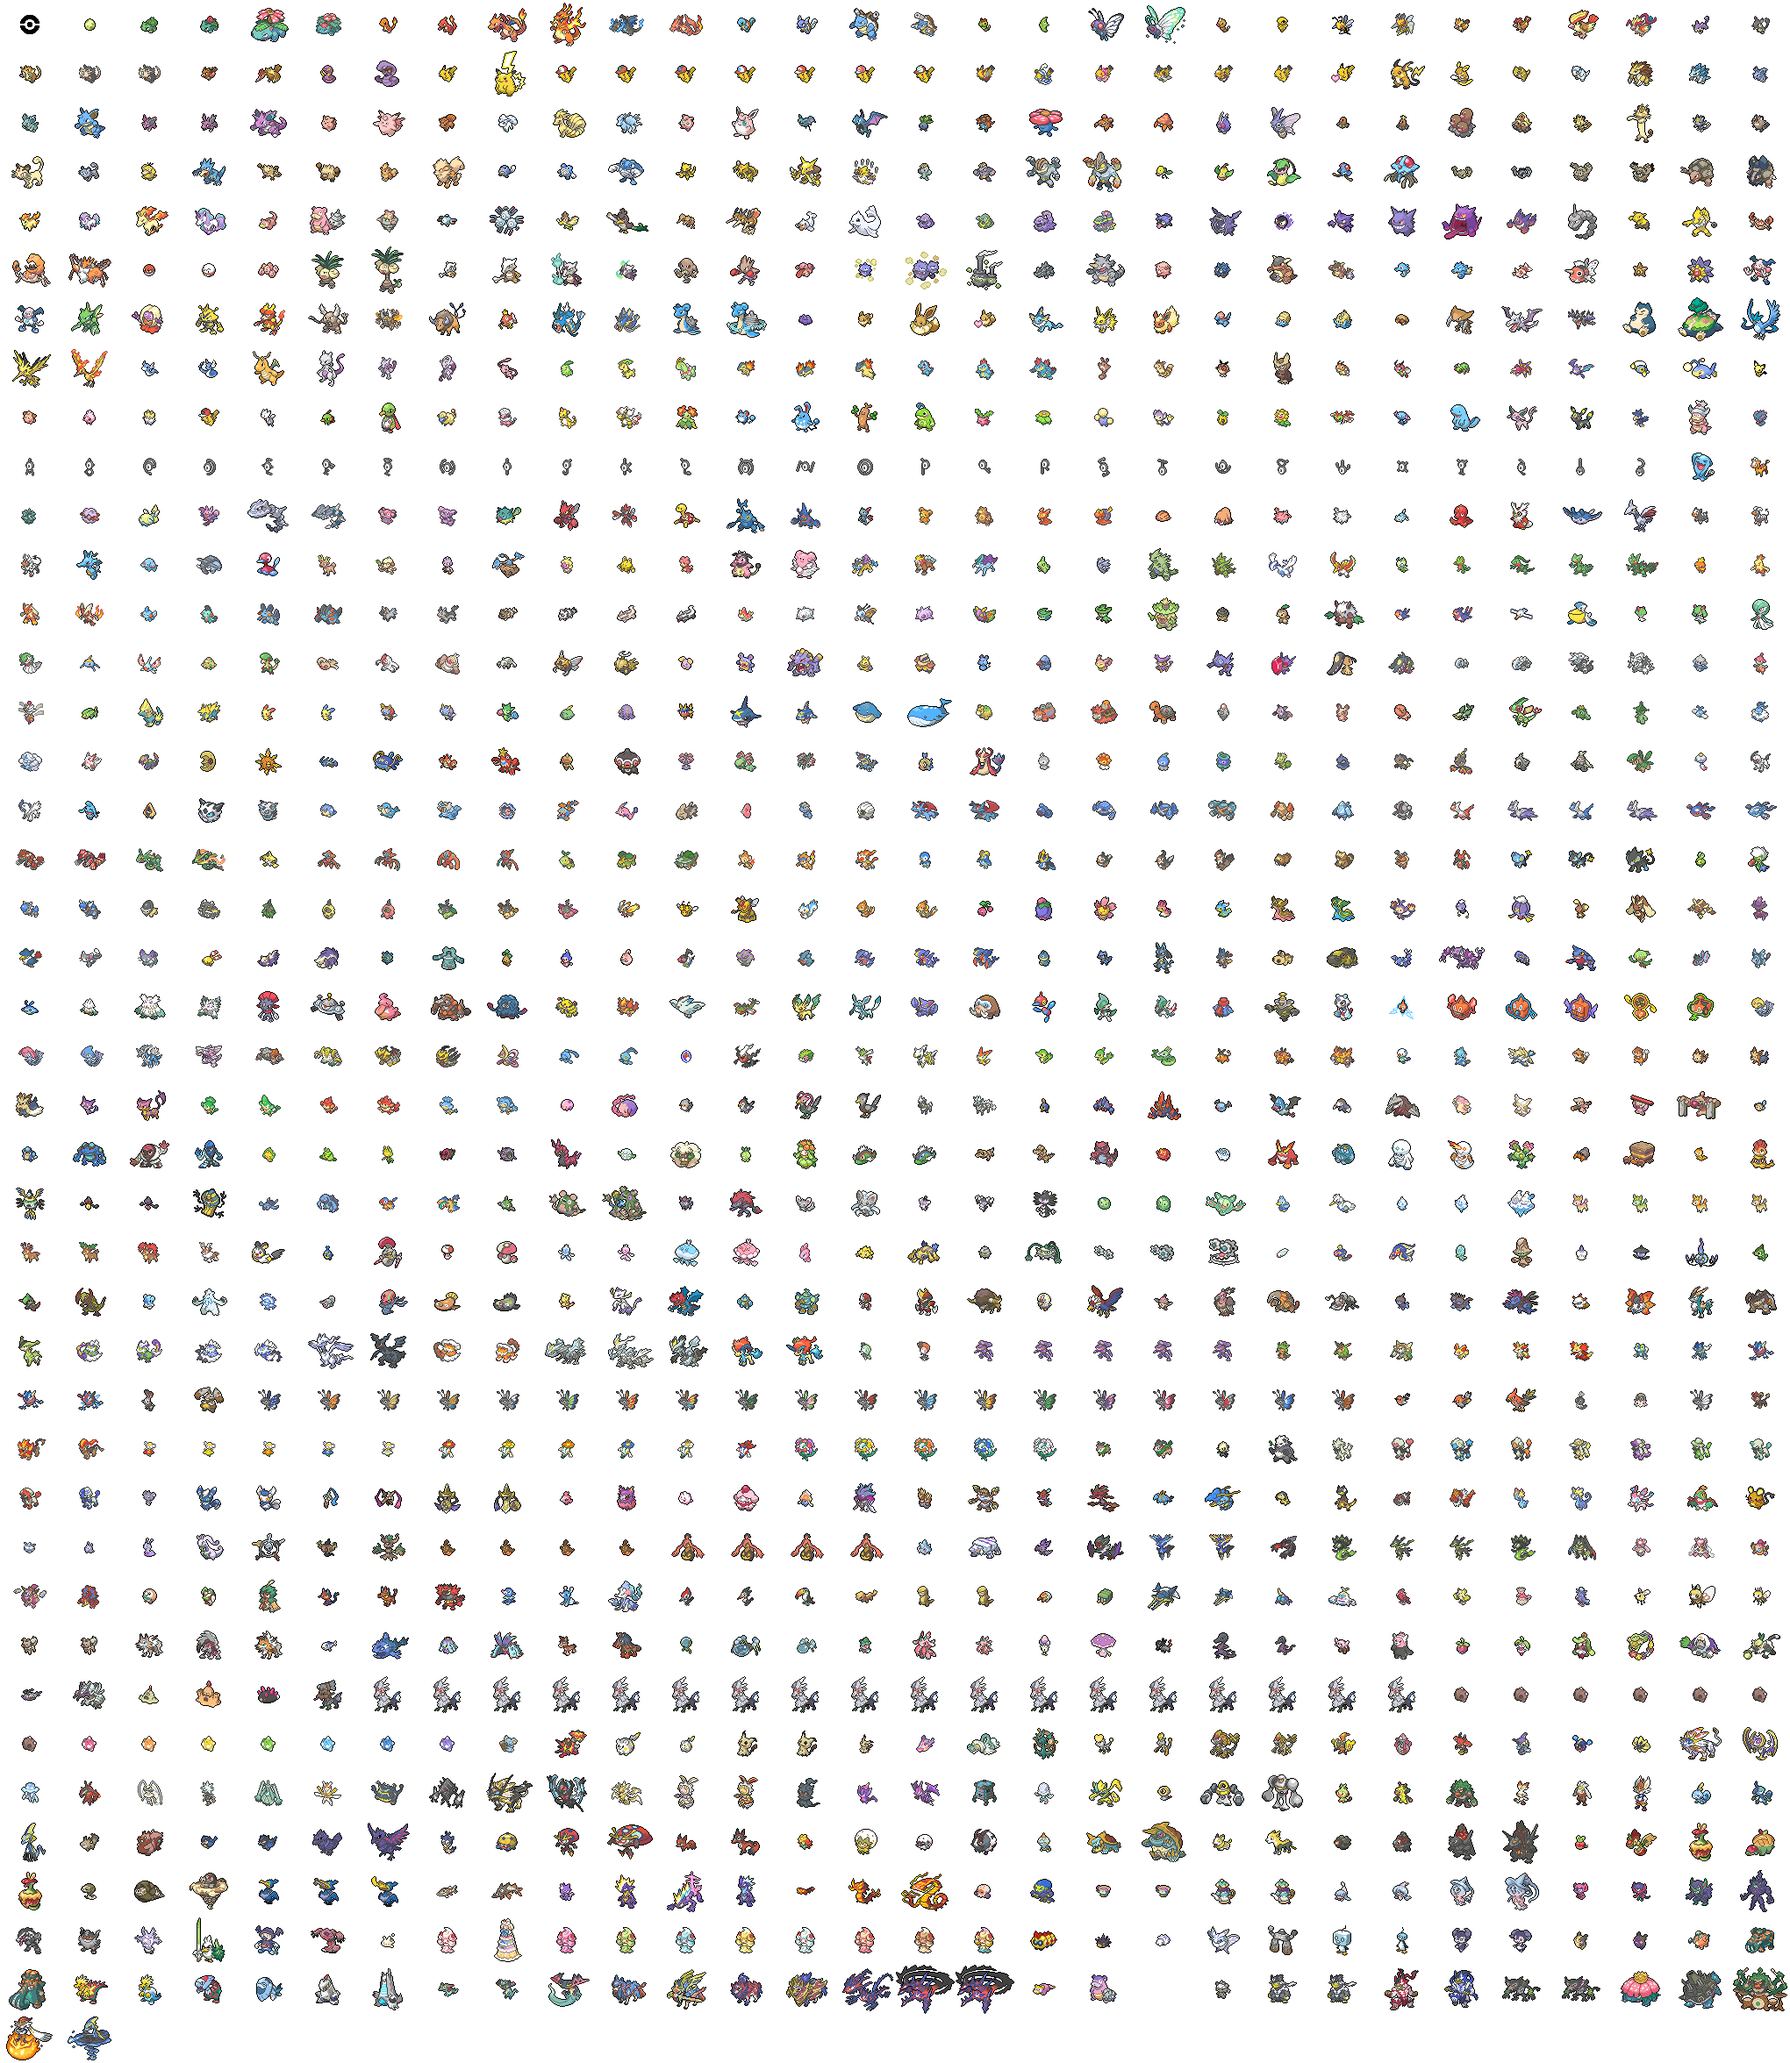
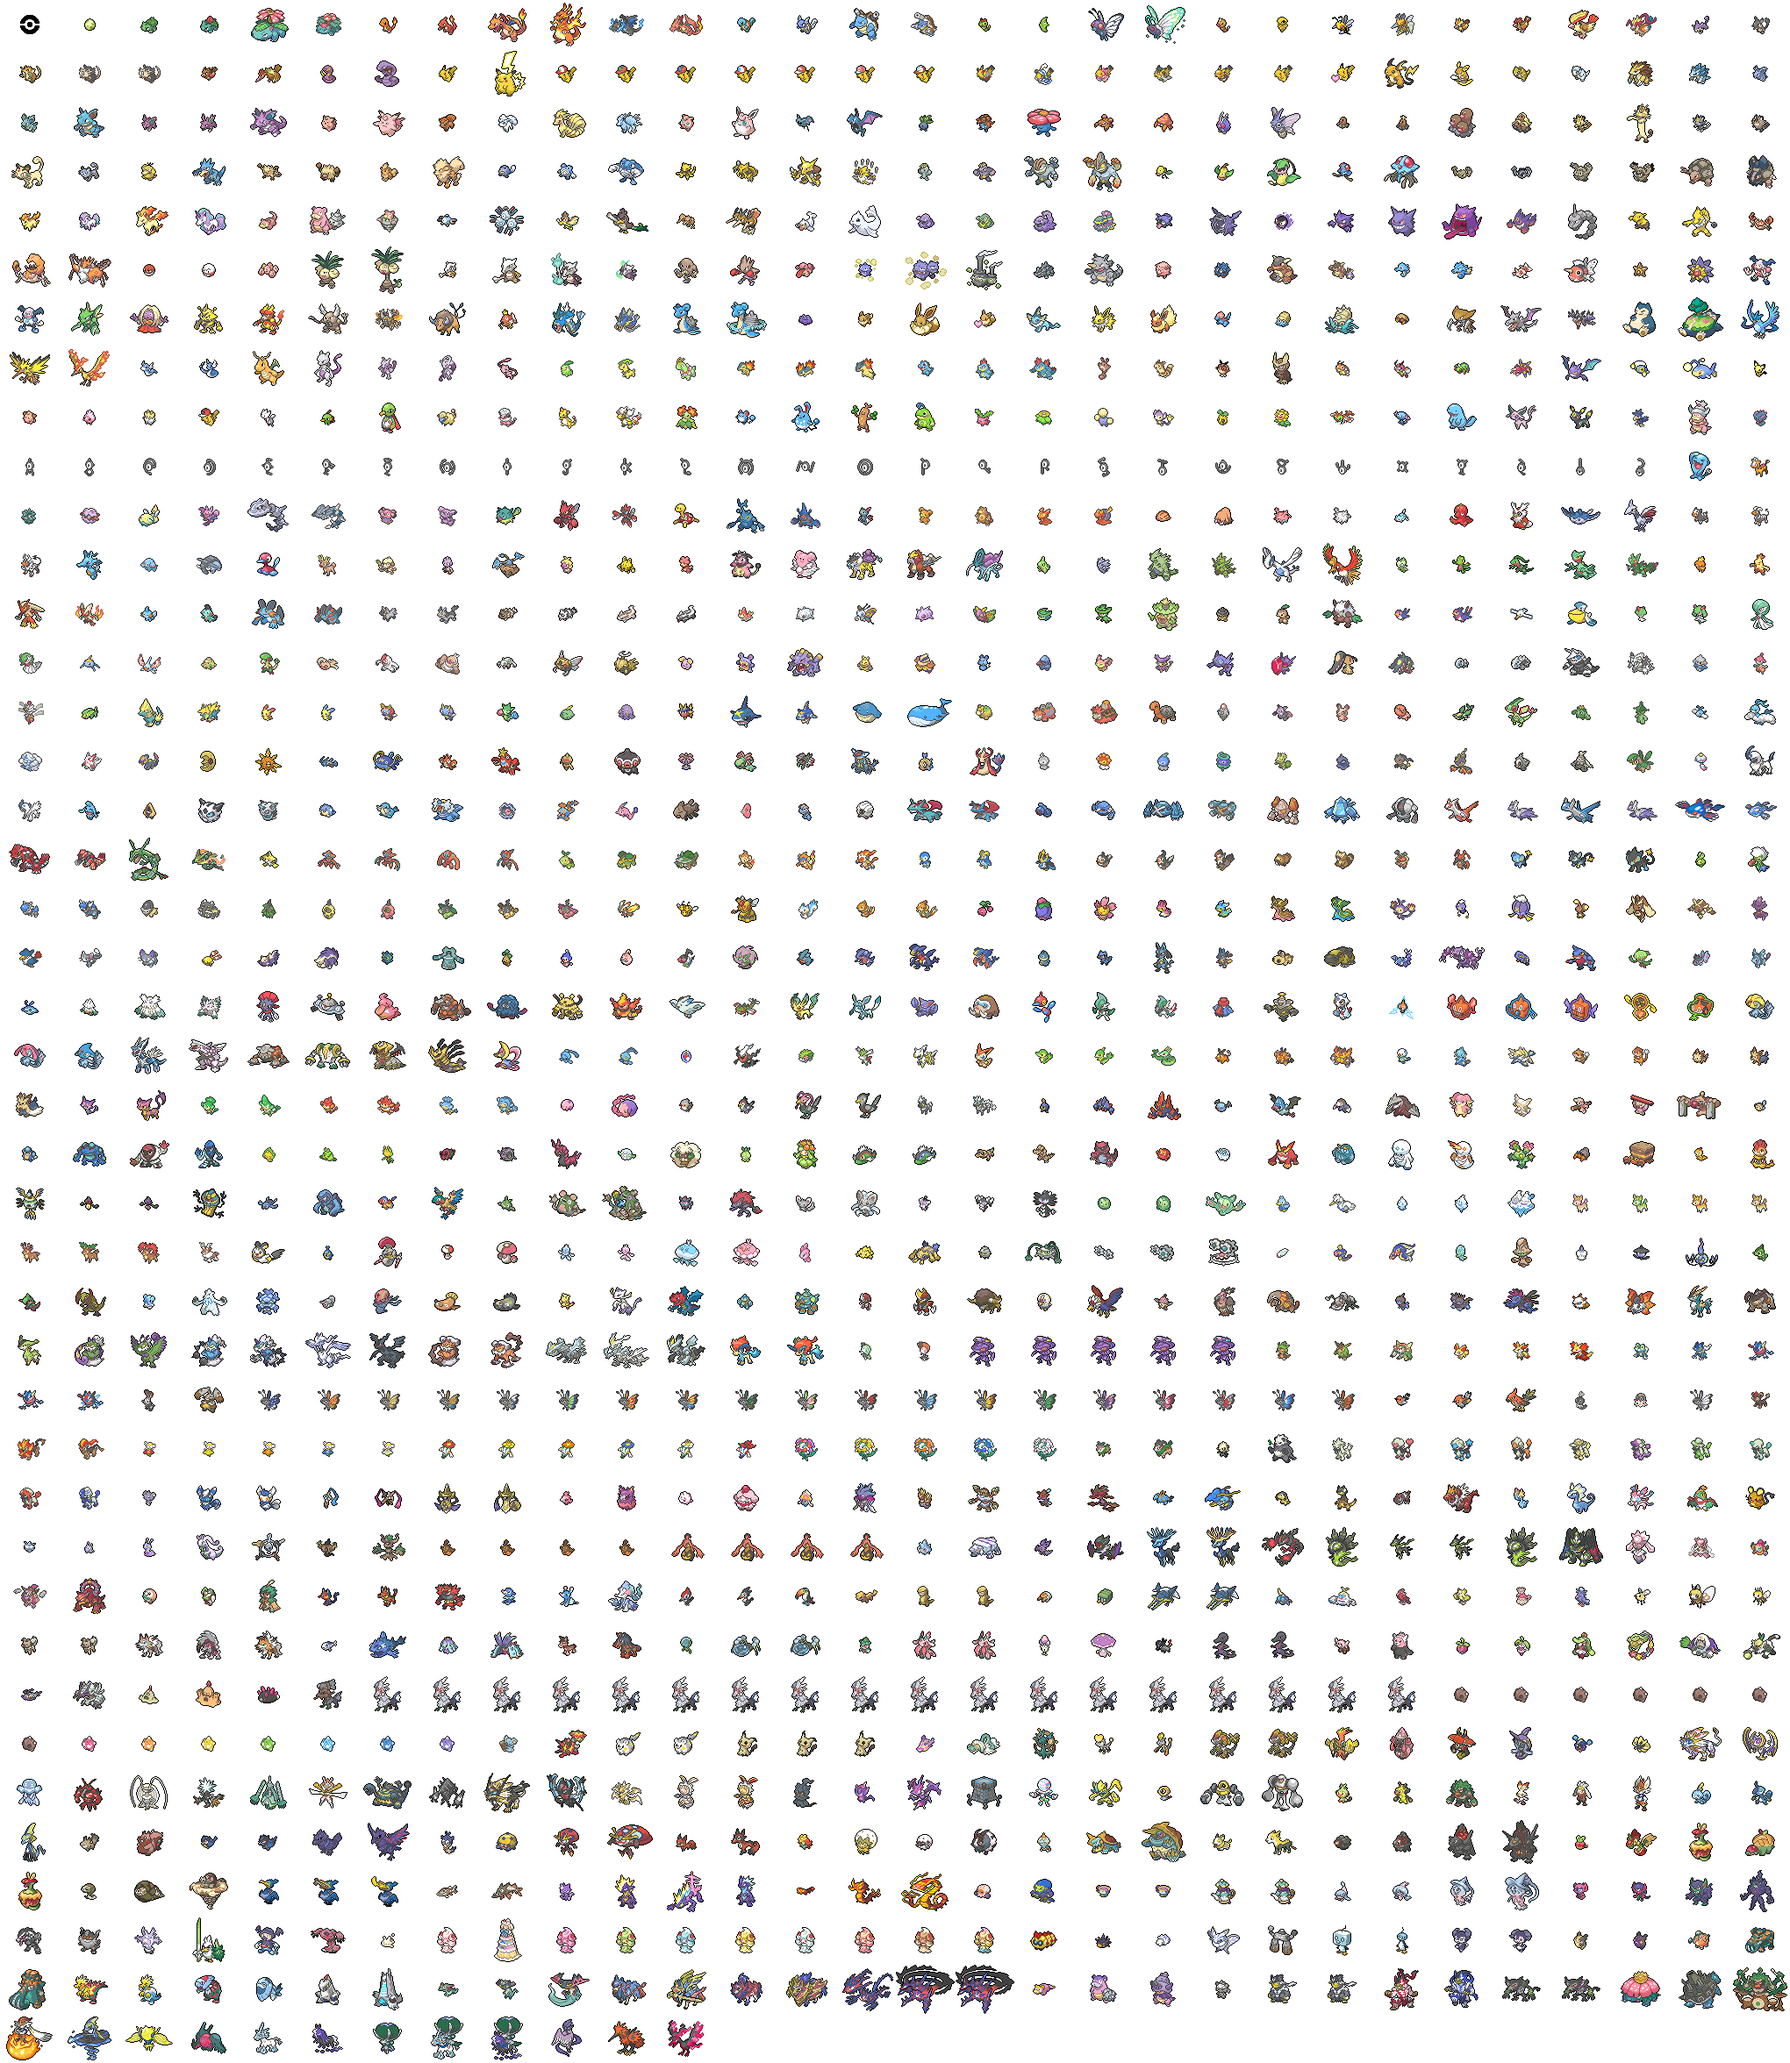
update swsh dlc2

diff --git a/src/pokedex.js b/src/pokedex.js
@@ -1,6 +1,6 @@
 import { pad } from './utils';
 
-const national = Array.from(Array(893).keys()).map(idx => pad(idx + 1));
+const national = Array.from(Array(898).keys()).map(idx => pad(idx + 1));
 // gen 1
 const rgby = Array.from(Array(151).keys()).map(idx => pad(idx + 1));
 // gen 2
@@ -35,6 +35,7 @@ const lgpe = [...rgby, '808', '809'];
 // gen 8
 const swsh = ['810', '811', '812', '813', '814', '815', '816', '817', '818', '824', '825', '826', '010', '011', '012', '736', '737', '738', '163', '164', '821', '822', '823', '819', '820', '519', '520', '521', '827', '828', '263', '264', '862', '831', '832', '270', '271', '272', '273', '274', '275', '833', '834', '509', '510', '835', '836', '659', '660', '572', '573', '761', '762', '763', '043', '044', '045', '182', '406', '315', '407', '278', '279', '595', '596', '309', '310', '037', '038', '058', '059', '582', '583', '584', '220', '221', '473', '225', '361', '362', '478', '343', '344', '749', '750', '557', '558', '622', '623', '517', '518', '177', '178', '759', '760', '459', '460', '098', '099', '194', '195', '341', '342', '290', '291', '292', '236', '106', '107', '237', '674', '675', '599', '600', '601', '415', '416', '436', '437', '280', '281', '282', '475', '425', '426', '829', '830', '420', '421', '434', '435', '535', '536', '537', '355', '356', '477', '066', '067', '068', '092', '093', '094', '129', '130', '118', '119', '223', '224', '090', '091', '349', '350', '550', '746', '771', '568', '569', '850', '851', '837', '838', '839', '050', '051', '529', '530', '524', '525', '526', '532', '533', '534', '527', '528', '714', '715', '095', '208', '846', '847', '052', '863', '053', '868', '869', '742', '743', '597', '598', '710', '711', '172', '025', '026', '133', '134', '135', '136', '196', '197', '470', '471', '700', '840', '841', '842', '677', '678', '684', '685', '682', '683', '751', '752', '360', '202', '083', '865', '170', '171', '453', '454', '559', '560', '618', '213', '339', '340', '422', '423', '767', '768', '688', '689', '222', '864', '859', '860', '861', '856', '857', '858', '757', '758', '624', '625', '538', '539', '109', '110', '438', '185', '173', '035', '036', '175', '176', '468', '446', '143', '546', '547', '111', '112', '464', '574', '575', '576', '577', '578', '579', '588', '589', '616', '617', '605', '606', '613', '614', '627', '628', '629', '630', '451', '452', '607', '608', '609', '686', '687', '215', '461', '302', '303', '556', '561', '447', '448', '324', '778', '878', '879', '211', '592', '593', '747', '748', '845', '848', '849', '843', '844', '449', '450', '632', '631', '694', '695', '701', '328', '329', '330', '610', '611', '612', '562', '867', '563', '679', '680', '681', '077', '078', '854', '855', '876', '708', '709', '755', '756', '765', '766', '877', '870', '780', '776', '777', '872', '873', '852', '853', '871', '458', '226', '320', '321', '712', '713', '781', '131', '337', '338', '439', '122', '866', '554', '555', '874', '875', '884', '479', '132', '880', '881', '882', '883', '004', '005', '006', '772', '773', '246', '247', '248', '633', '634', '635', '704', '705', '706', '782', '783', '784', '885', '886', '887', '888', '889', '890'];
 const swsh_armor = ['079', '080', '199', '427', '428', '440', '113', '242', '819', '820', '174', '039', '040', '824', '825', '826', '753', '754', '840', '841', '842', '661', '662', '663', '403', '404', '405', '707', '624', '625', '063', '064', '065', '280', '281', '282', '475', '098', '099', '072', '073', '129', '130', '223', '224', '458', '226', '278', '279', '451', '452', '206', '626', '108', '463', '833', '834', '194', '195', '704', '705', '706', '621', '616', '617', '588', '589', '001', '002', '003', '007', '008', '009', '543', '544', '545', '590', '591', '764', '114', '465', '453', '454', '172', '025', '026', '570', '571', '765', '766', '341', '342', '845', '118', '119', '846', '847', '120', '121', '891', '892', '587', '702', '877', '081', '082', '462', '686', '687', '746', '318', '319', '506', '507', '508', '128', '241', '123', '212', '127', '214', '557', '558', '767', '768', '871', '747', '748', '852', '853', '090', '091', '769', '770', '425', '426', '339', '340', '298', '183', '184', '060', '061', '062', '186', '054', '055', '293', '294', '295', '527', '528', '227', '524', '525', '526', '744', '745', '757', '758', '559', '560', '619', '620', '782', '783', '784', '027', '028', '104', '105', '115', '324', '843', '844', '551', '552', '553', '627', '628', '629', '630', '111', '112', '464', '636', '637', '170', '171', '320', '321', '592', '593', '690', '691', '692', '693', '116', '117', '230', '548', '549', '415', '416', '102', '103', '132', '137', '233', '474', '893'];
+const swsh_crown = ['872', '873', '831', '832', '819', '820', '220', '221', '473', '439', '122', '866', '238', '124', '239', '125', '466', '240', '126', '467', '531', '582', '583', '584', '361', '362', '478', '215', '461', '615', '459', '460', '708', '709', '333', '334', '859', '860', '861', '856', '857', '858', '173', '035', '036', '778', '442', '607', '608', '609', '574', '575', '576', '577', '578', '579', '532', '533', '534', '339', '340', '129', '130', '550', '029', '030', '031', '032', '033', '034', '263', '264', '862', '133', '134', '135', '136', '196', '197', '470', '471', '700', '696', '697', '698', '699', '436', '437', '874', '875', '751', '752', '595', '596', '588', '589', '616', '617', '850', '851', '632', '631', '554', '555', '077', '078', '359', '878', '879', '885', '886', '887', '371', '372', '373', '443', '444', '445', '621', '225', '613', '614', '138', '139', '140', '141', '142', '703', '374', '375', '376', '854', '855', '447', '448', '633', '634', '635', '246', '247', '248', '712', '713', '041', '042', '169', '564', '565', '566', '567', '343', '344', '622', '623', '835', '836', '877', '871', '363', '364', '365', '781', '821', '822', '823', '829', '830', '546', '547', '213', '876', '446', '143', '302', '303', '837', '838', '839', '597', '598', '714', '715', '345', '346', '347', '348', '369', '349', '350', '131', '304', '305', '306', '147', '148', '149', '377', '378', '379', '894', '895', '144', '145', '146', '638', '639', '640', '896', '897', '898'];
 
 export default {
     national,
@@ -64,4 +65,5 @@ export default {
     lgpe,
     swsh,
     swsh_armor,
+    swsh_crown,
 };

diff --git a/src/App.js b/src/App.js
@@ -10,7 +10,7 @@ import {
 import Card from '@material-ui/core/Card';
 import CardContent from '@material-ui/core/CardContent';
 import Container from '@material-ui/core/Container';
-import { fade, makeStyles } from '@material-ui/core/styles';
+import { alpha, makeStyles } from '@material-ui/core/styles';
 import Link from '@material-ui/core/Link';
 import AppBar from '@material-ui/core/AppBar';
 import Toolbar from '@material-ui/core/Toolbar';
@@ -54,9 +54,9 @@ const useStyles = makeStyles(theme => ({
   search: {
     position: 'relative',
     borderRadius: theme.shape.borderRadius,
-    backgroundColor: fade(theme.palette.common.white, 0.15),
+    backgroundColor: alpha(theme.palette.common.white, 0.15),
     '&:hover': {
-      backgroundColor: fade(theme.palette.common.white, 0.25),
+      backgroundColor: alpha(theme.palette.common.white, 0.25),
     },
     marginLeft: 0,
     width: '100%',
@@ -131,7 +131,7 @@ function Computer(props) {
   const dex = pokedex[pokedexId || 'national'];
 
   return (
-    <Grid container justify="center" alignItems="center" direction="column">
+    <Grid container justifyContent="center" alignItems="center" direction="column">
       {
         Array.from(Array(Math.ceil(dex.length / 30)).keys()).map((i) => {
           const offset = 30 * i;
@@ -169,45 +169,46 @@ function GameSelector(props) {
         <tbody>
           <tr>
             <td>關都</td>
-            <td colSpan="8"><AreaLink label="RGBY" to="/rgby" /></td>
-            <td colSpan="8"><AreaLink label="FRLG" to="/frlg" /></td>
-            <td colSpan="8"><AreaLink label="LGPE" to="/lgpe" /></td>
+            <td><AreaLink label="RGBY" to="/rgby" /></td>
+            <td><AreaLink label="FRLG" to="/frlg" /></td>
+            <td><AreaLink label="LGPE" to="/lgpe" /></td>
           </tr>
           <tr>
             <td>城都</td>
-            <td colSpan="12"><AreaLink label="GSC" to="/gsc" /></td>
-            <td colSpan="12"><AreaLink label="HGSS" to="/hgss" /></td>
+            <td><AreaLink label="GSC" to="/gsc" /></td>
+            <td><AreaLink label="HGSS" to="/hgss" /></td>
           </tr>
           <tr>
             <td>豐緣</td>
-            <td colSpan="12"><AreaLink label="RSE" to="/rse" /></td>
-            <td colSpan="12"><AreaLink label="ORAS" to="/oras" /></td>
+            <td><AreaLink label="RSE" to="/rse" /></td>
+            <td><AreaLink label="ORAS" to="/oras" /></td>
           </tr>
           <tr>
             <td>神奧</td>
-            <td colSpan="12"><AreaLink label="DP" to="/dp" /></td>
-            <td colSpan="12"><AreaLink label="Pt" to="/pt" /></td>
+            <td><AreaLink label="DP" to="/dp" /></td>
+            <td><AreaLink label="Pt" to="/pt" /></td>
           </tr>
           <tr>
             <td>合眾</td>
-            <td colSpan="12"><AreaLink label="BW" to="/bw" /></td>
-            <td colSpan="12"><AreaLink label="B2W2" to="/b2w2" /></td>
+            <td><AreaLink label="BW" to="/bw" /></td>
+            <td><AreaLink label="B2W2" to="/b2w2" /></td>
           </tr>
           <tr>
             <td>卡洛斯</td>
-            <td colSpan="8"><AreaLink label="Coastal" to="/xy_coastal" /></td>
-            <td colSpan="8"><AreaLink label="Central" to="/xy_central" /></td>
-            <td colSpan="8"><AreaLink label="Mountain" to="/xy_mountain" /></td>
+            <td><AreaLink label="Coastal" to="/xy_coastal" /></td>
+            <td><AreaLink label="Central" to="/xy_central" /></td>
+            <td><AreaLink label="Mountain" to="/xy_mountain" /></td>
           </tr>
           <tr>
             <td>阿羅拉</td>
-            <td colSpan="12"><AreaLink label="SM" to="/sm" /></td>
-            <td colSpan="12"><AreaLink label="USUM" to="/usum" /></td>
+            <td><AreaLink label="SM" to="/sm" /></td>
+            <td><AreaLink label="USUM" to="/usum" /></td>
           </tr>
           <tr>
             <td>伽勒爾</td>
-            <td colSpan="12"><AreaLink label="SWSH" to="/swsh" /></td>
-            <td colSpan="12"><AreaLink label="ARMOR" to="/swsh_armor" /></td>
+            <td><AreaLink label="SWSH" to="/swsh" /></td>
+            <td><AreaLink label="ARMOR" to="/swsh_armor" /></td>
+            <td><AreaLink label="CROWN" to="/swsh_crown" /></td>
           </tr>
         </tbody>
       </table>

diff --git a/src/52poke.css b/src/52poke.css
@@ -866,12 +866,24 @@
     background-position: -1972px -336px
 }
 
+.sprite-icon-144G {
+    background-position: -612px -2296px
+}
+
 .sprite-icon-145 {
     background-position: 0 -392px
 }
 
+.sprite-icon-145G {
+    background-position: -680px -2296px
+}
+
 .sprite-icon-146 {
     background-position: -68px -392px
+}
+
+.sprite-icon-146G {
+    background-position: -748px -2296px
 }
 
 .sprite-icon-147 {
@@ -4932,4 +4944,32 @@
 
 .sprite-icon-893D {
     background-position: -1768px -2240px
+}
+
+.sprite-icon-894 {
+    background-position: -136px -2296px
+}
+
+.sprite-icon-895 {
+    background-position: -204px -2296px
+}
+
+.sprite-icon-896 {
+    background-position: -272px -2296px
+}
+
+.sprite-icon-897 {
+    background-position: -340px -2296px
+}
+
+.sprite-icon-898 {
+    background-position: -408px -2296px
+}
+
+.sprite-icon-898I {
+    background-position: -476px -2296px
+}
+
+.sprite-icon-898S {
+    background-position: -544px -2296px
 }

diff --git a/src/pokemon.js b/src/pokemon.js
@@ -893,5 +893,10 @@ const pokemon = [
     ['891', '熊徒弟', 'ダクマ', 'Kubfu', '格斗'],
     ['892', '武道熊师', 'ウーラオス', 'Urshifu', '格斗, 惡'],
     ['893', '萨戮德', 'ザルード', 'Zarude', '惡, 草'],
+    ['894', '雷吉艾勒奇', 'レジエレキ', 'Regieleki', '電'],
+    ['895', '雷吉鐸拉戈', 'レジドラゴ', 'Regidrago', '龍'],
+    ['896', '雪暴馬', 'ブリザポス', 'Glastrier', '冰'],
+    ['897', '靈幽馬', 'レイスポス', 'Spectrier', '幽靈'],
+    ['898', '蕾冠王', 'バドレックス', 'Calyrex', '超能力, 草'],
 ];
 export default pokemon;

diff --git a/src/utils.js b/src/utils.js
@@ -1,7 +1,7 @@
 import pokemon from './pokemon';
 
 export function pad(index) {
-    return index.toString().padStart(3, 0);
+  return index.toString().padStart(3, 0);
 };
 
 export function findPokemon(idx) {
